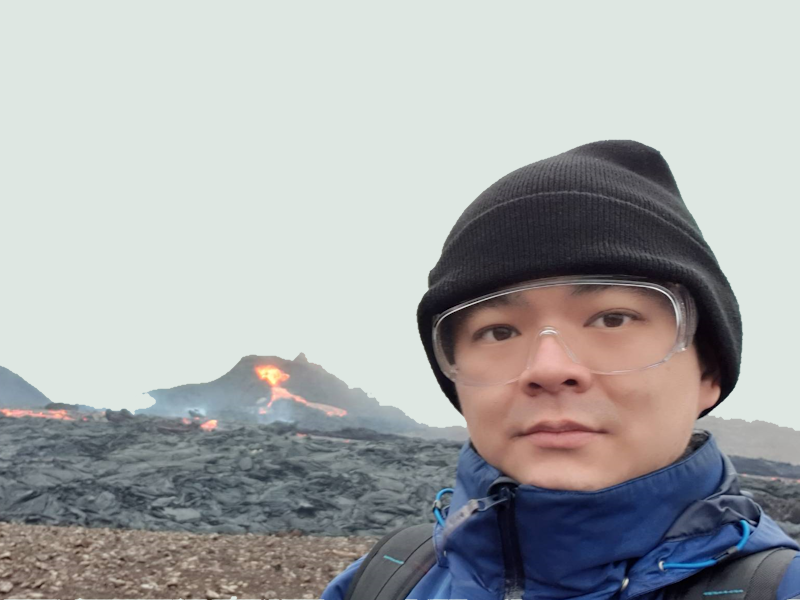
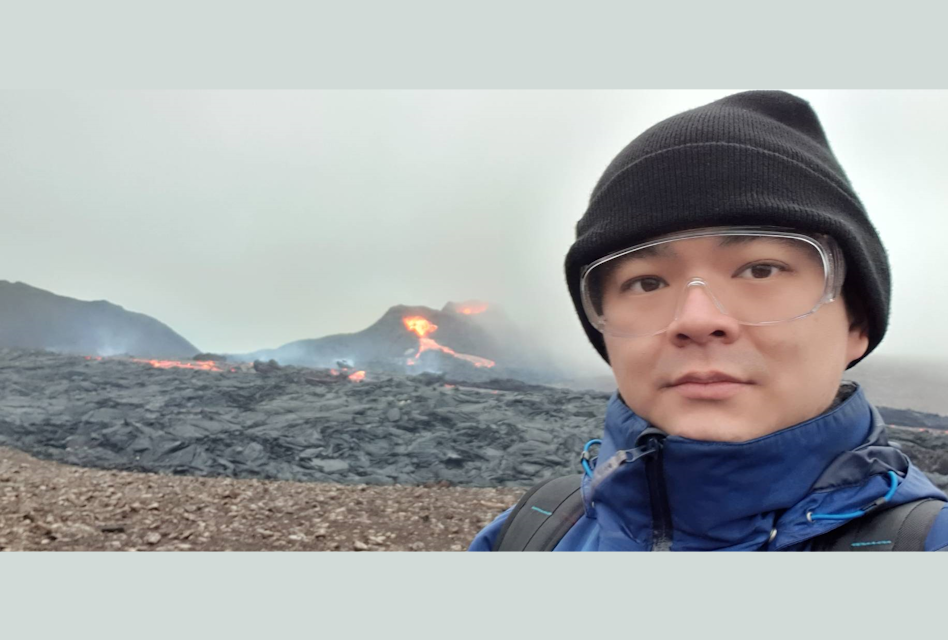
change index photo

diff --git a/experience.html b/experience.html
@@ -13,12 +13,12 @@
         <ul class="header_list">
             <li><a href="index.html">Self Introduction</a></li>
             <li><a href="experience.html">Personal Experience</a></li>
-            <li><a href="#">Machine Learning Model Structure</a></li>
+            <li><a href="#">AI Model Structure</a></li>
         </ul>
     </div>
     <div class="banner">
         <img class="banner_img"
-            src="https://github.com/hexschool/2022-web-layout-training/blob/16da9aa899a5190ed2d5bdfe48ae1cc631b95463/2025-web-camp/desktop/blog/About%20Section.png?raw=true"
+            src="/SEED/img/experinceBanner.png"
             alt="banner_logo">
         <div class="banner_content">
             <h3>Personal Experience</h3>

diff --git a/index.html b/index.html
@@ -13,7 +13,7 @@
         <ul class="header_list">
             <li><a href="index.html">Self Introduction</a></li>
             <li><a href="experience.html">Personal Experience</a></li>
-            <li><a href="#">Machine Learning Model Structure</a></li>
+            <li><a href="#">AI Model Structure</a></li>
         </ul>
     </div>
     <div class="banner">
